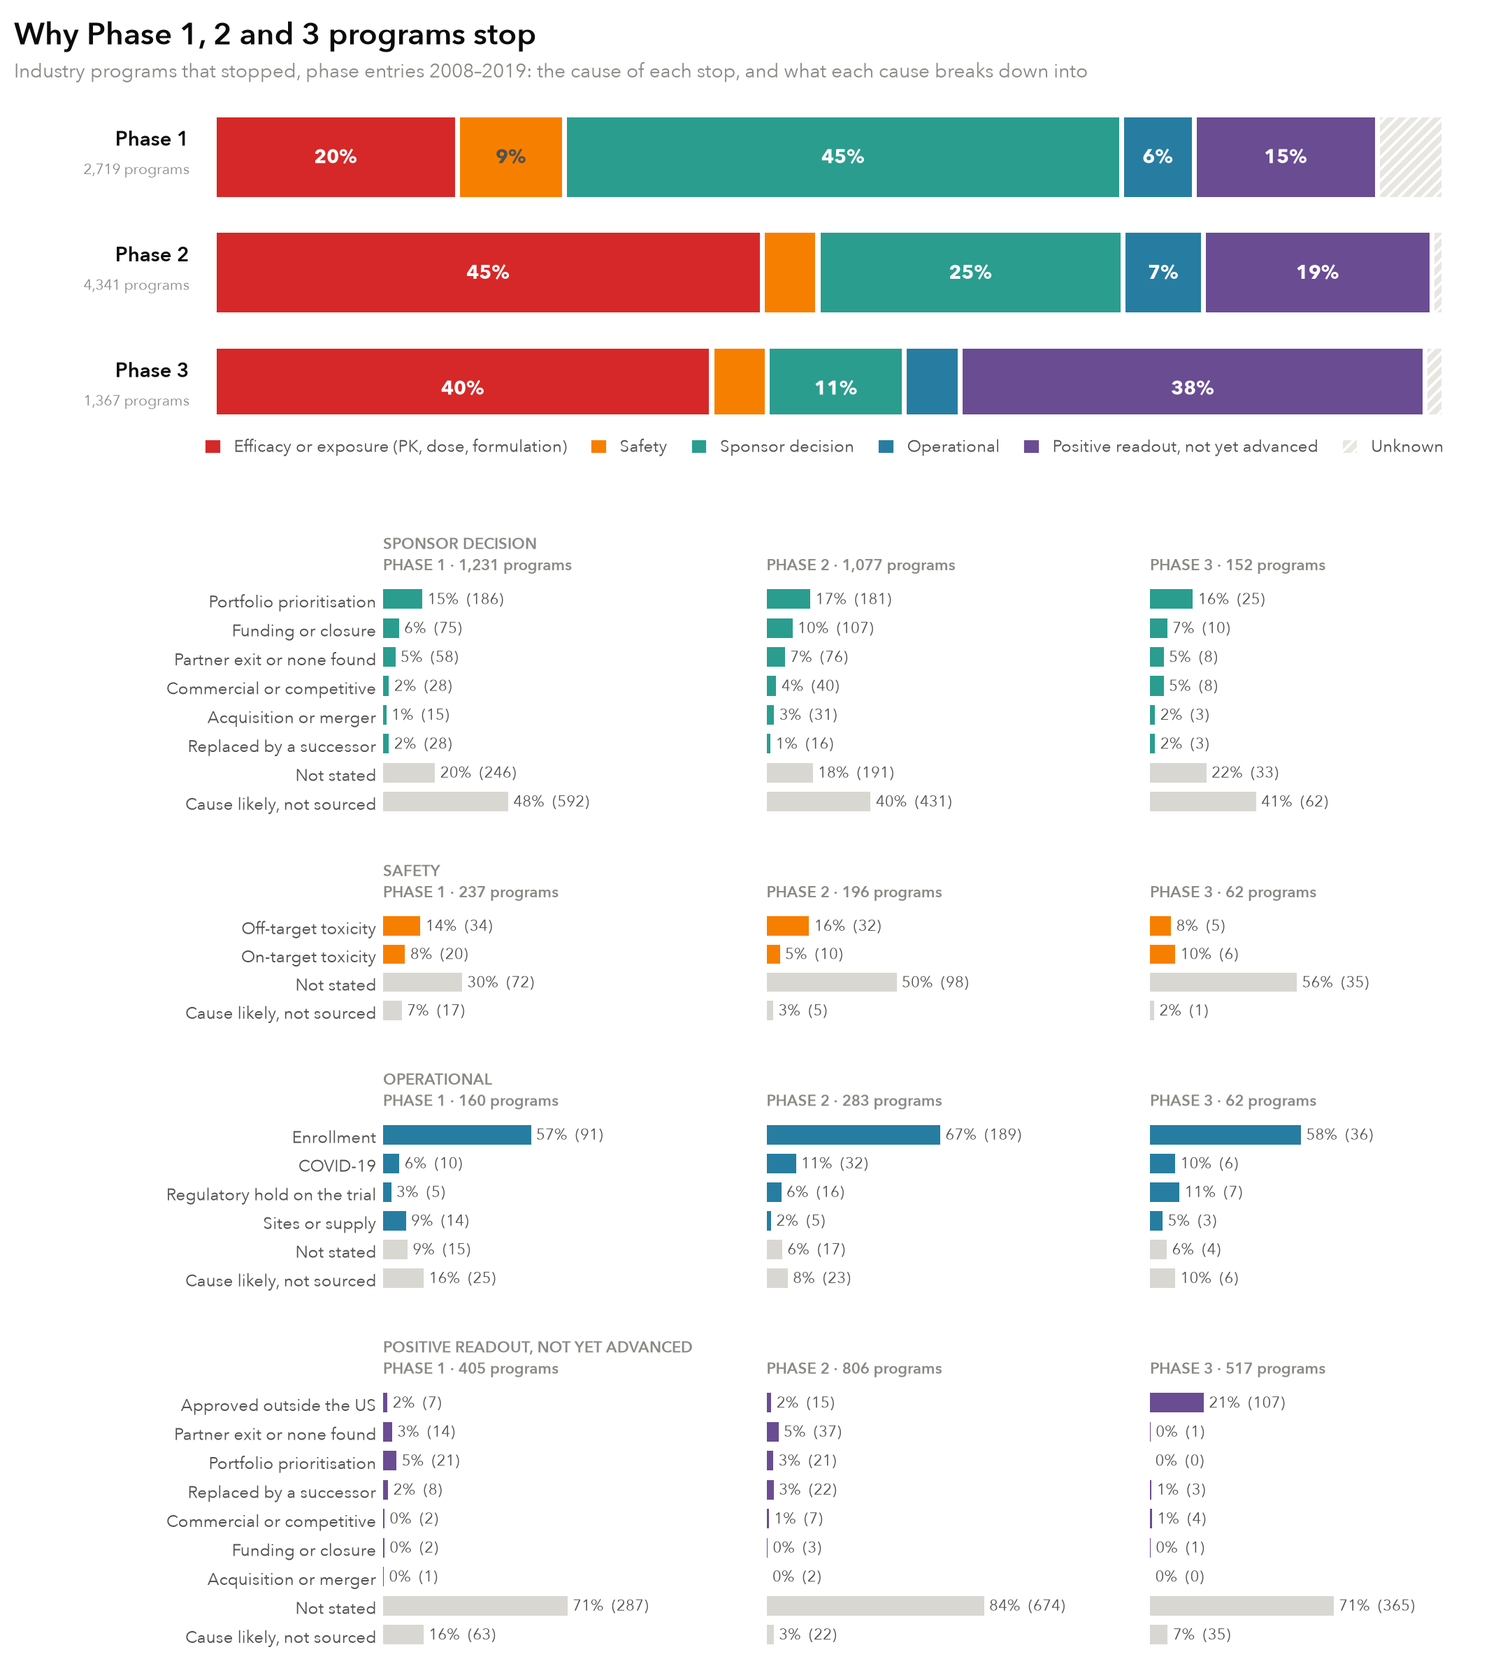
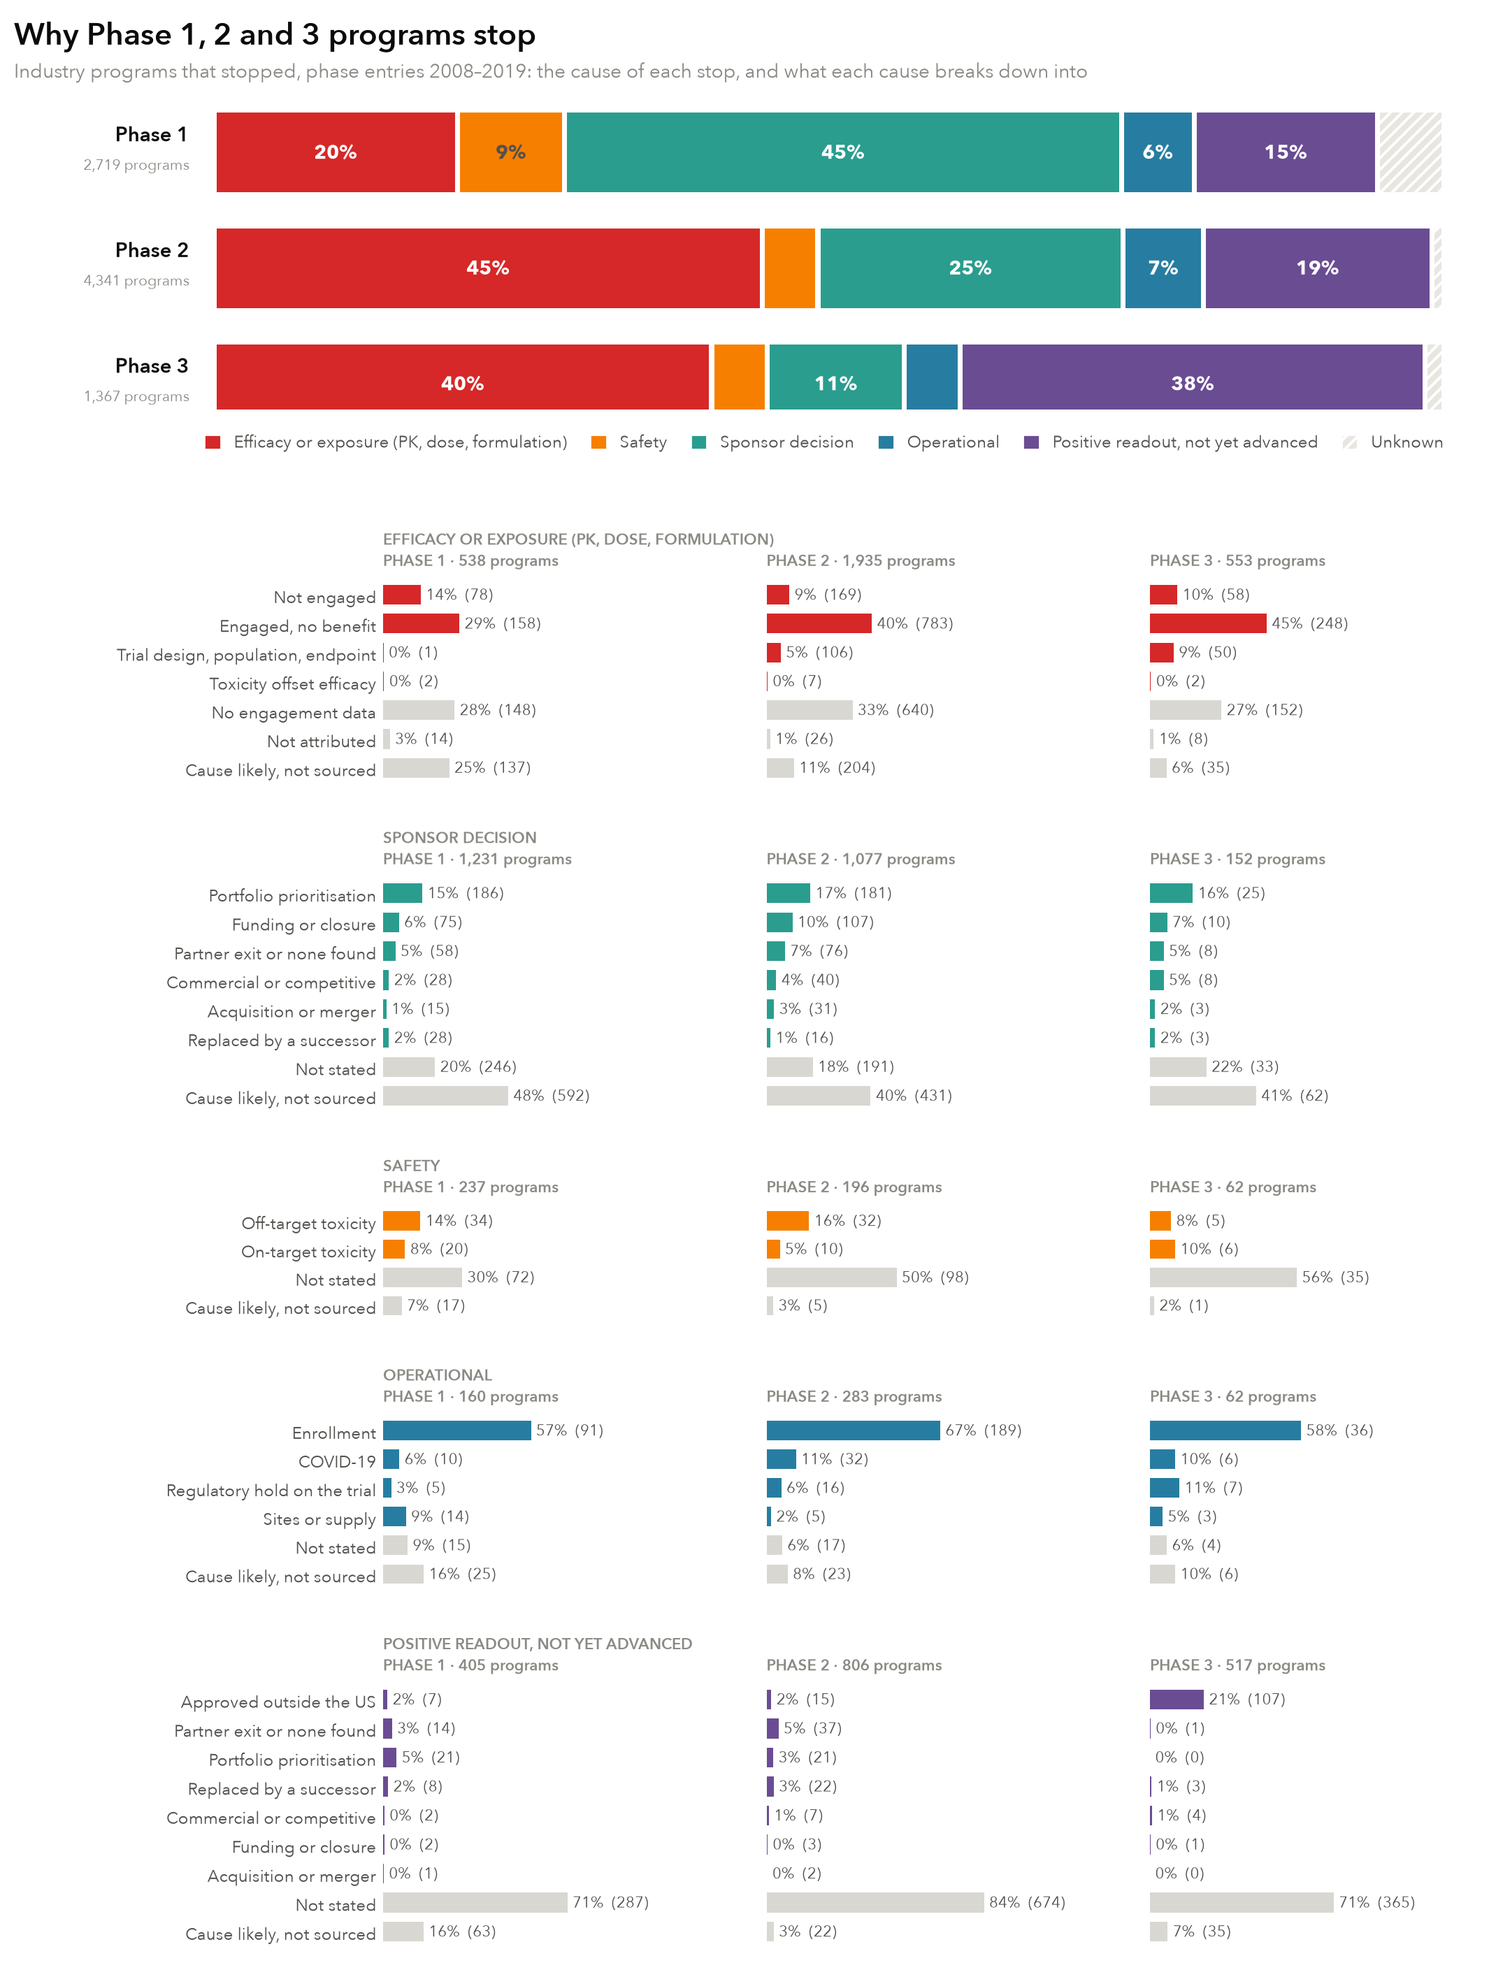
One figure for why programs stop: efficacy joins the subcause panels, the separate efficacy figure goes

diff --git a/report/figures.py b/report/figures.py
@@ -130,59 +130,31 @@ def registered_vs_traced():
         save(fig, "stop_causes_registered_vs_traced")
 
 
-def efficacy_attribution():
-    """Why efficacy failed, by phase: one bar per phase, by what the evidence shows about target engagement."""
-    n = json.load(open(os.path.join(OUT, "attribution", "numbers.json")))
-    years = f"{n['window']['from']}–{n['window']['to']}"
-    efficacy_of = {1: n["phase1"], 2: n["by_phase"]["2"], 3: n["by_phase"]["3"]}
-    logging.getLogger("matplotlib.font_manager").setLevel(logging.ERROR)  # demibold falls back silently
-    with plt.rc_context(RC):
-        fig, ax = plt.subplots(figsize=(10.5, 3.9))
-        fig.subplots_adjust(left=0.13, right=0.97, top=0.78, bottom=0.02)
-        ax.set_xlim(0, 1)
-        ax.set_ylim(-0.4, 3.1)
-        ax.axis("off")
-        fig.text(0.03, 0.975, "Why efficacy failed", fontsize=16, fontweight="demibold", color=INK, va="top")
-        fig.text(0.03, 0.895, f"Industry programs stopped for efficacy or exposure with a sourced cause, phase entries "
-                 f"{years}: what the evidence shows about target engagement", fontsize=10.5, color=MUTED, va="top")
-        for k, phase in enumerate((1, 2, 3)):
-            e = efficacy_of[phase]
-            y = 2.6 - k * 0.95
-            stacked(ax, y, [(e["subcauses"][g]["share"], col, g == "no_engagement_data")
-                            for g, col in ATTRIBUTION_COLORS.items()], height=0.66)
-            ax.text(-0.02, y + 0.03, f"Phase {phase}", ha="right", va="bottom", fontsize=10.5, color=INK,
-                    fontweight="demibold")
-            ax.text(-0.02, y - 0.02, f"{e['programs']:,} programs", ha="right", va="top", fontsize=7.5, color=MUTED)
-        ax.legend(handles=[matplotlib.patches.Patch(facecolor=col, edgecolor="white",
-                                                    hatch="////" if g == "no_engagement_data" else None,
-                                                    label=SUBCAUSE_LABELS[g][1])
-                           for g, col in ATTRIBUTION_COLORS.items()],
-                  frameon=False, fontsize=8.5, loc="upper left", handlelength=1.0, handleheight=1.0,
-                  columnspacing=1.4, labelspacing=0.5, labelcolor=INK2, ncol=3, bbox_to_anchor=(-0.12, 0.08))
-        save(fig, "efficacy_attribution")
-
-
-BROKEN_DOWN = ("sponsor_decision", "safety", "operational", "positive_not_advanced")  # efficacy: efficacy_attribution
+BROKEN_DOWN = ("efficacy", "sponsor_decision", "safety", "operational", "positive_not_advanced")
+EFFICACY_PARTS = [*ATTRIBUTION_COLORS, "not_attributed"]  # why efficacy failed, from the efficacy attribution
+GRAY_PARTS = ("not_stated", "no_engagement_data", "not_attributed")
 LIKELY_ONLY = "cause_likely"  # a stop whose cause is the model's likely cause has no subcause
 LIGHT = "#d9d7d1"
 
 
 def stop_causes_by_phase():
     """Why Phase 1, 2 and 3 programs stop: each phase's stops by cause (sourced or likely), then each cause's stops by
-    subcause in one panel per phase, solid where the text or a source states the subcause and pale where the search
-    finds it only likely. Every panel sums to its segment of the cause bar."""
+    subcause in one panel per phase (for efficacy, what the evidence shows about target engagement), solid where the
+    text or a source states the subcause and pale where the search finds it only likely. Every panel sums to its
+    segment of the cause bar."""
     n = json.load(open(os.path.join(OUT, "stop_causes", "numbers.json")))
     d = pd.read_csv(os.path.join(OUT, "stop_causes", "programs.csv"))
     d = d[pd.to_datetime(d.phase_entry).dt.year.between(n["window"]["from"], n["window"]["to"]) & d.shown.notna()]
     d = d.assign(part=d.subcause.where(d.cause.eq(d.shown), LIKELY_ONLY),
                  likely=d.get("subcause_support", pd.Series(index=d.index, dtype=object)).eq("likely"))
-    orders = {}
-    for c in BROKEN_DOWN:
+    orders = {"efficacy": [x for x in [*EFFICACY_PARTS, LIKELY_ONLY] if d[d.shown.eq("efficacy")].part.eq(x).any()]}
+    for c in BROKEN_DOWN[1:]:
         share = d[d.shown.eq(c)].part.value_counts()
         named = [x for x in BREAKDOWN[c] if x not in ("other_stated", "not_stated")]
         orders[c] = [x for x in sorted(named, key=lambda x: -share.get(x, 0)) + ["other_stated", "not_stated", LIKELY_ONLY]
                      if share.get(x, 0)]  # a subcause no stop of the cause has is left out
-    names = {**SUBCAUSE_NAMES, LIKELY_ONLY: "Cause likely, not sourced"}
+    names = {**SUBCAUSE_NAMES, **{k: v[1] for k, v in SUBCAUSE_LABELS.items()}, "not_attributed": "Not attributed",
+             LIKELY_ONLY: "Cause likely, not sourced"}
     sizes = [len(orders[c]) for c in BROKEN_DOWN]
     logging.getLogger("matplotlib.font_manager").setLevel(logging.ERROR)
     with plt.rc_context(RC):
@@ -221,7 +193,7 @@ def stop_causes_by_phase():
                 for yi, x in zip(y, order):
                     part = g[g.part.eq(x)]
                     w, w_likely = len(part) / max(len(g), 1), part.likely.sum() / max(len(g), 1)
-                    gray = x in ("not_stated", LIKELY_ONLY)
+                    gray = x in (*GRAY_PARTS, LIKELY_ONLY)
                     ax.add_patch(matplotlib.patches.Rectangle((0, yi - 0.34), w - w_likely, 0.68, linewidth=0,
                                                               facecolor=LIGHT if gray else SHOWN_COLORS[cause]))
                     ax.add_patch(matplotlib.patches.Rectangle((w - w_likely, yi - 0.34), w_likely, 0.68, linewidth=0,
@@ -693,8 +665,6 @@ def main():
         prediction()
     if os.path.exists(os.path.join(OUT, "section2", "relative_success_by_area.csv")):
         genetics_by_area()
-    if os.path.exists(os.path.join(OUT, "attribution", "numbers.json")):
-        efficacy_attribution()
     if os.path.exists(os.path.join(OUT, "stop_causes", "numbers.json")):
         stop_causes_by_phase()
         registered_vs_traced()

diff --git a/report/stop_causes.py b/report/stop_causes.py
@@ -141,6 +141,14 @@ def main() -> None:
          "subcause_support": {c: g.subcause_support.value_counts().reindex(["stated", "likely"], fill_value=0)
                               .astype(int).to_dict() for c, g in d.groupby("cause") if c in SUBCAUSES},
          "not_a_stop": {c: int((main.cause == c).sum()) for c in NOT_A_STOP},
+         "by_phase": {str(p): {"stops": int(len(stopped(x := traced[within(traced, SECTION1) & traced.phase.eq(p)]))),
+                               "shown": distribution(stopped(x), "shown", list(SHOWN)),
+                               "not_a_stop": {c: int((x.cause == c).sum()) for c in NOT_A_STOP}}
+                      for p in (1, 2, 3)},
+         "named": {c: {"share": float(g.subcause.ne("not_stated").mean()),
+                       "stated": float(g.subcause_support.eq("stated").mean()),
+                       "likely": float(g.subcause_support.eq("likely").mean())}
+                   for c, g in d.groupby("cause") if c in SUBCAUSES},
          "positive_discontinued": float(d[d.cause.eq("positive_not_advanced")].subcause.isin(DISCONTINUED).mean()),
          "validation": validation()}
     with open(os.path.join(OUT, "numbers.json"), "w") as f:

diff --git a/report/methods.py b/report/methods.py
@@ -35,7 +35,7 @@ def main() -> None:
     r, j = n["rederivation"], n["adjudication"]
     doc = f"""# How the stop-cause and efficacy-failure figure is built
 
-Figure: `report/output/figures/efficacy_attribution.png`. Code: `pipeline/outcomes.py` (registry
+Figure: `report/output/figures/stop_causes_by_phase.png`. Code: `pipeline/outcomes.py` (registry
 classification), `report/section1.py` (stops and their registry reason), `pipeline/stops.py` (the shared
 definitions: cohort, final labels, which label settles which cause, the names of causes and subcauses),
 `pipeline/stop_causes.py` (tracing, and `assemble`, which writes `preclin.stop`), `pipeline/attribution.py`

diff --git a/report/narrative/section1_efficacy.md b/report/narrative/section1_efficacy.md
@@ -2,9 +2,8 @@
 
 Efficacy fails in one of two ways: the drug never engaged its target in patients, so the hypothesis went untested, or it engaged and the disease did not respond. For every program entering Phase 1, 2 or 3 in 2008–2019 that stopped for efficacy or exposure (PK, dose or formulation), {{attribution.phase1.programs|int}} in Phase 1 and {{attribution.phase23.programs|int}} in Phase 2 or 3, an LLM read the trials, results, papers and, where those were silent, the web, and judged whether the drug reached and engaged its target in humans at the doses tested. The method and its checks are in the appendix.
 
-![Phase 1, 2 and 3 programs stopped for efficacy or exposure with a sourced cause (likely-only causes are not broken down), phase entries 2008–2019, by what the evidence shows about target engagement. Phase 1 trials rarely test efficacy, so its efficacy stops are mostly early patient cohorts and dose-finding readouts](report/output/figures/efficacy_attribution.png)
 
-Where the record shows whether the mechanism was tested, the drug had engaged its target in {{attribution.phase23.subcauses.engaged_no_benefit.n|int}} of {{attribution.phase23.testable.n|int}} programs and the disease did not respond; **{{attribution.phase23.testable.not_engaged_share|pct0}}** ({{attribution.phase23.testable.lo|pct0}}–{{attribution.phase23.testable.hi|pct0}}) failed without adequate engagement or exposure, or with another drug on the same target succeeding in the disease. The second kind is inferred rather than measured: {{attribution.phase23.details.other_drug_on_target_worked.n|int}} of the {{attribution.phase23.subcauses.not_engaged.n|int}} not-engaged programs failed where a drug on the same target worked, {{attribution.phase23.other_drug_worked_no_engagement_data|int}} of them with no human engagement data of their own; the rest had exposure or engagement measured and found inadequate. Failures to engage are about as common in Phase 3 ({{attribution.by_phase.3.testable.not_engaged_share|pct0}}) as in Phase 2 ({{attribution.by_phase.2.testable.not_engaged_share|pct0}}): no regulation requires engagement to be shown, and good practice places it in Phase 1 or 2a, yet engagement was often still unverified when confirmatory trials started. Outside oncology the share is {{attribution.outside_oncology.testable.not_engaged_share|pct0}}. Trial design, population or endpoint account for {{attribution.phase23.subcauses.trial_design.share|pct0}} of efficacy failures, and toxicity that offset efficacy for {{attribution.phase23.subcauses.toxicity_offset.n|int}} programs. Another {{attribution.reclassified.programs|int}} programs recorded as efficacy stops were not failed efficacy tests (a met endpoint, a missed non-inferiority margin, a business stop, or off-target toxicity); they are counted under their traced cause above and left out here.
+The efficacy panels of the figure above break these failures down by phase. Where the record shows whether the mechanism was tested, the drug had engaged its target in {{attribution.phase23.subcauses.engaged_no_benefit.n|int}} of {{attribution.phase23.testable.n|int}} programs and the disease did not respond; **{{attribution.phase23.testable.not_engaged_share|pct0}}** ({{attribution.phase23.testable.lo|pct0}}–{{attribution.phase23.testable.hi|pct0}}) failed without adequate engagement or exposure, or with another drug on the same target succeeding in the disease. The second kind is inferred rather than measured: {{attribution.phase23.details.other_drug_on_target_worked.n|int}} of the {{attribution.phase23.subcauses.not_engaged.n|int}} not-engaged programs failed where a drug on the same target worked, {{attribution.phase23.other_drug_worked_no_engagement_data|int}} of them with no human engagement data of their own; the rest had exposure or engagement measured and found inadequate. Failures to engage are about as common in Phase 3 ({{attribution.by_phase.3.testable.not_engaged_share|pct0}}) as in Phase 2 ({{attribution.by_phase.2.testable.not_engaged_share|pct0}}): no regulation requires engagement to be shown, and good practice places it in Phase 1 or 2a, yet engagement was often still unverified when confirmatory trials started. Outside oncology the share is {{attribution.outside_oncology.testable.not_engaged_share|pct0}}. Trial design, population or endpoint account for {{attribution.phase23.subcauses.trial_design.share|pct0}} of efficacy failures, and toxicity that offset efficacy for {{attribution.phase23.subcauses.toxicity_offset.n|int}} programs. Another {{attribution.reclassified.programs|int}} programs recorded as efficacy stops were not failed efficacy tests (a met endpoint, a missed non-inferiority margin, a business stop, or off-target toxicity); they are counted under their traced cause above and left out here.
 
 * *Engaged, no benefit.* Venglustat cut glucosylceramide in the cerebrospinal fluid of people with *GBA1* Parkinson's disease by about 73% at the top dose ([Peterschmitt 2022](https://doi.org/10.3233/JPD-212714)), and over a year their motor scores worsened by 7.3 points on drug against 4.7 on placebo ([MOVES-PD](https://doi.org/10.1016/S1474-4422(23)00205-3)). CSL112, plasma-derived apolipoprotein A1 that raises cholesterol efflux capacity, did not reduce myocardial infarction, stroke or cardiovascular death at 90 days in 18,219 patients after myocardial infarction (hazard ratio 0.93, 0.81–1.05; [AEGIS-II](https://doi.org/10.1056/NEJMoa2400969)).
 * *Not engaged.* PF-06687234, an IL-10 fusion protein added to infliximab for ulcerative colitis, was stopped for futility, and was detected, at low concentration, in only one colon tissue sample: the drug may never have reached the inflamed mucosa at a useful level ([Ther Adv Gastroenterol 2026](https://doi.org/10.1177/17562848251410784)).

diff --git a/report/narrative/section1_stop_causes.md b/report/narrative/section1_stop_causes.md
@@ -10,7 +10,7 @@ A sourced cause was found for {{stop_causes.inferred.resolved|pct0}} of the trac
 
 **Within each cause.** Where the sponsor decided, the sources most often name portfolio prioritisation ({{stop_causes.subcauses.sponsor_decision.portfolio_prioritisation.share|pct0}}) or the company running out of money or closing ({{stop_causes.subcauses.sponsor_decision.funding_or_closure.share|pct0}}); {{stop_causes.subcauses.sponsor_decision.not_stated.share|pct0}} say no more than "business reasons". Operational stops are mostly slow enrollment ({{stop_causes.subcauses.operational.enrollment.share|pct0}}). {{stop_causes.subcauses.safety.not_stated.share|pct0}} of safety stops do not say what the harm was. The largest share of positive readouts that went no further give no reason ({{stop_causes.subcauses.positive_not_advanced.not_stated.share|pct0}}); otherwise the drug was approved outside the US ({{stop_causes.subcauses.positive_not_advanced.approved_outside_us.share|pct0}}) or the sponsor chose not to go on, for the same reasons as other sponsor decisions ({{stop_causes.positive_discontinued|pct0}}), each as a share of all positive readouts. Of the stops no source explains, {{stop_causes.subcauses.unknown.sponsor_went_quiet.share|pct0}} had a sponsor that started no later trial, and in {{stop_causes.subcauses.unknown.drug_dropped.share|pct0}} the drug was dropped while its sponsor carried on.
 
-![Top: Phase 1, 2 and 3 stops by cause, phase entries 2008–2019, leaving out programs that did not actually stop or were not development programs; where no source states the cause, the likely cause is counted. Below: each cause broken down by subcause, one panel per phase. Solid: the stop's own text or a source states the subcause; pale: the search found it likely but no source says it; "not stated": the sources say no more than the cause; "cause likely, not sourced": the cause itself is only likely, so it has no subcause. Efficacy is broken down in the next figure](report/output/figures/stop_causes_by_phase.png)
+![Top: Phase 1, 2 and 3 stops by cause, phase entries 2008–2019, leaving out programs that did not actually stop or were not development programs; where no source states the cause, the likely cause is counted. Below: each cause broken down by subcause, one panel per phase. Solid: the stop's own text or a source states the subcause; pale: the search found it likely but no source says it; "not stated": the sources say no more than the cause; "cause likely, not sourced": the cause itself is only likely, so it has no subcause. For efficacy, the panels show what the evidence says about target engagement; programs whose efficacy failure was not attributed are those without an efficacy label](report/output/figures/stop_causes_by_phase.png)
 
 **Over time.** Counting sourced and likely causes, and leaving out programs that turned out not to have stopped, efficacy or exposure was the cause of {{stop_causes.by_period.2008-2011.shown.efficacy.share|pct0}} of stops among programs entering in 2008–2011, {{stop_causes.by_period.2012-2015.shown.efficacy.share|pct0}} in 2012–2015 and {{stop_causes.by_period.2016-2019.shown.efficacy.share|pct0}} in 2016–2019; sponsor decisions {{stop_causes.by_period.2008-2011.shown.sponsor_decision.share|pct0}}, {{stop_causes.by_period.2012-2015.shown.sponsor_decision.share|pct0}} and {{stop_causes.by_period.2016-2019.shown.sponsor_decision.share|pct0}}, and a positive readout not yet advanced {{stop_causes.by_period.2008-2011.shown.positive_not_advanced.share|pct0}}, {{stop_causes.by_period.2012-2015.shown.positive_not_advanced.share|pct0}} and {{stop_causes.by_period.2016-2019.shown.positive_not_advanced.share|pct0}}. Among entries from 2015 to 2025 ({{stop_causes.recent.stops|int}} stops, many later programs still running), the shares are {{stop_causes.recent.shown.efficacy.share|pct0}} efficacy or exposure, {{stop_causes.recent.shown.sponsor_decision.share|pct0}} sponsor decision and {{stop_causes.recent.shown.positive_not_advanced.share|pct0}} positive readouts.
 
